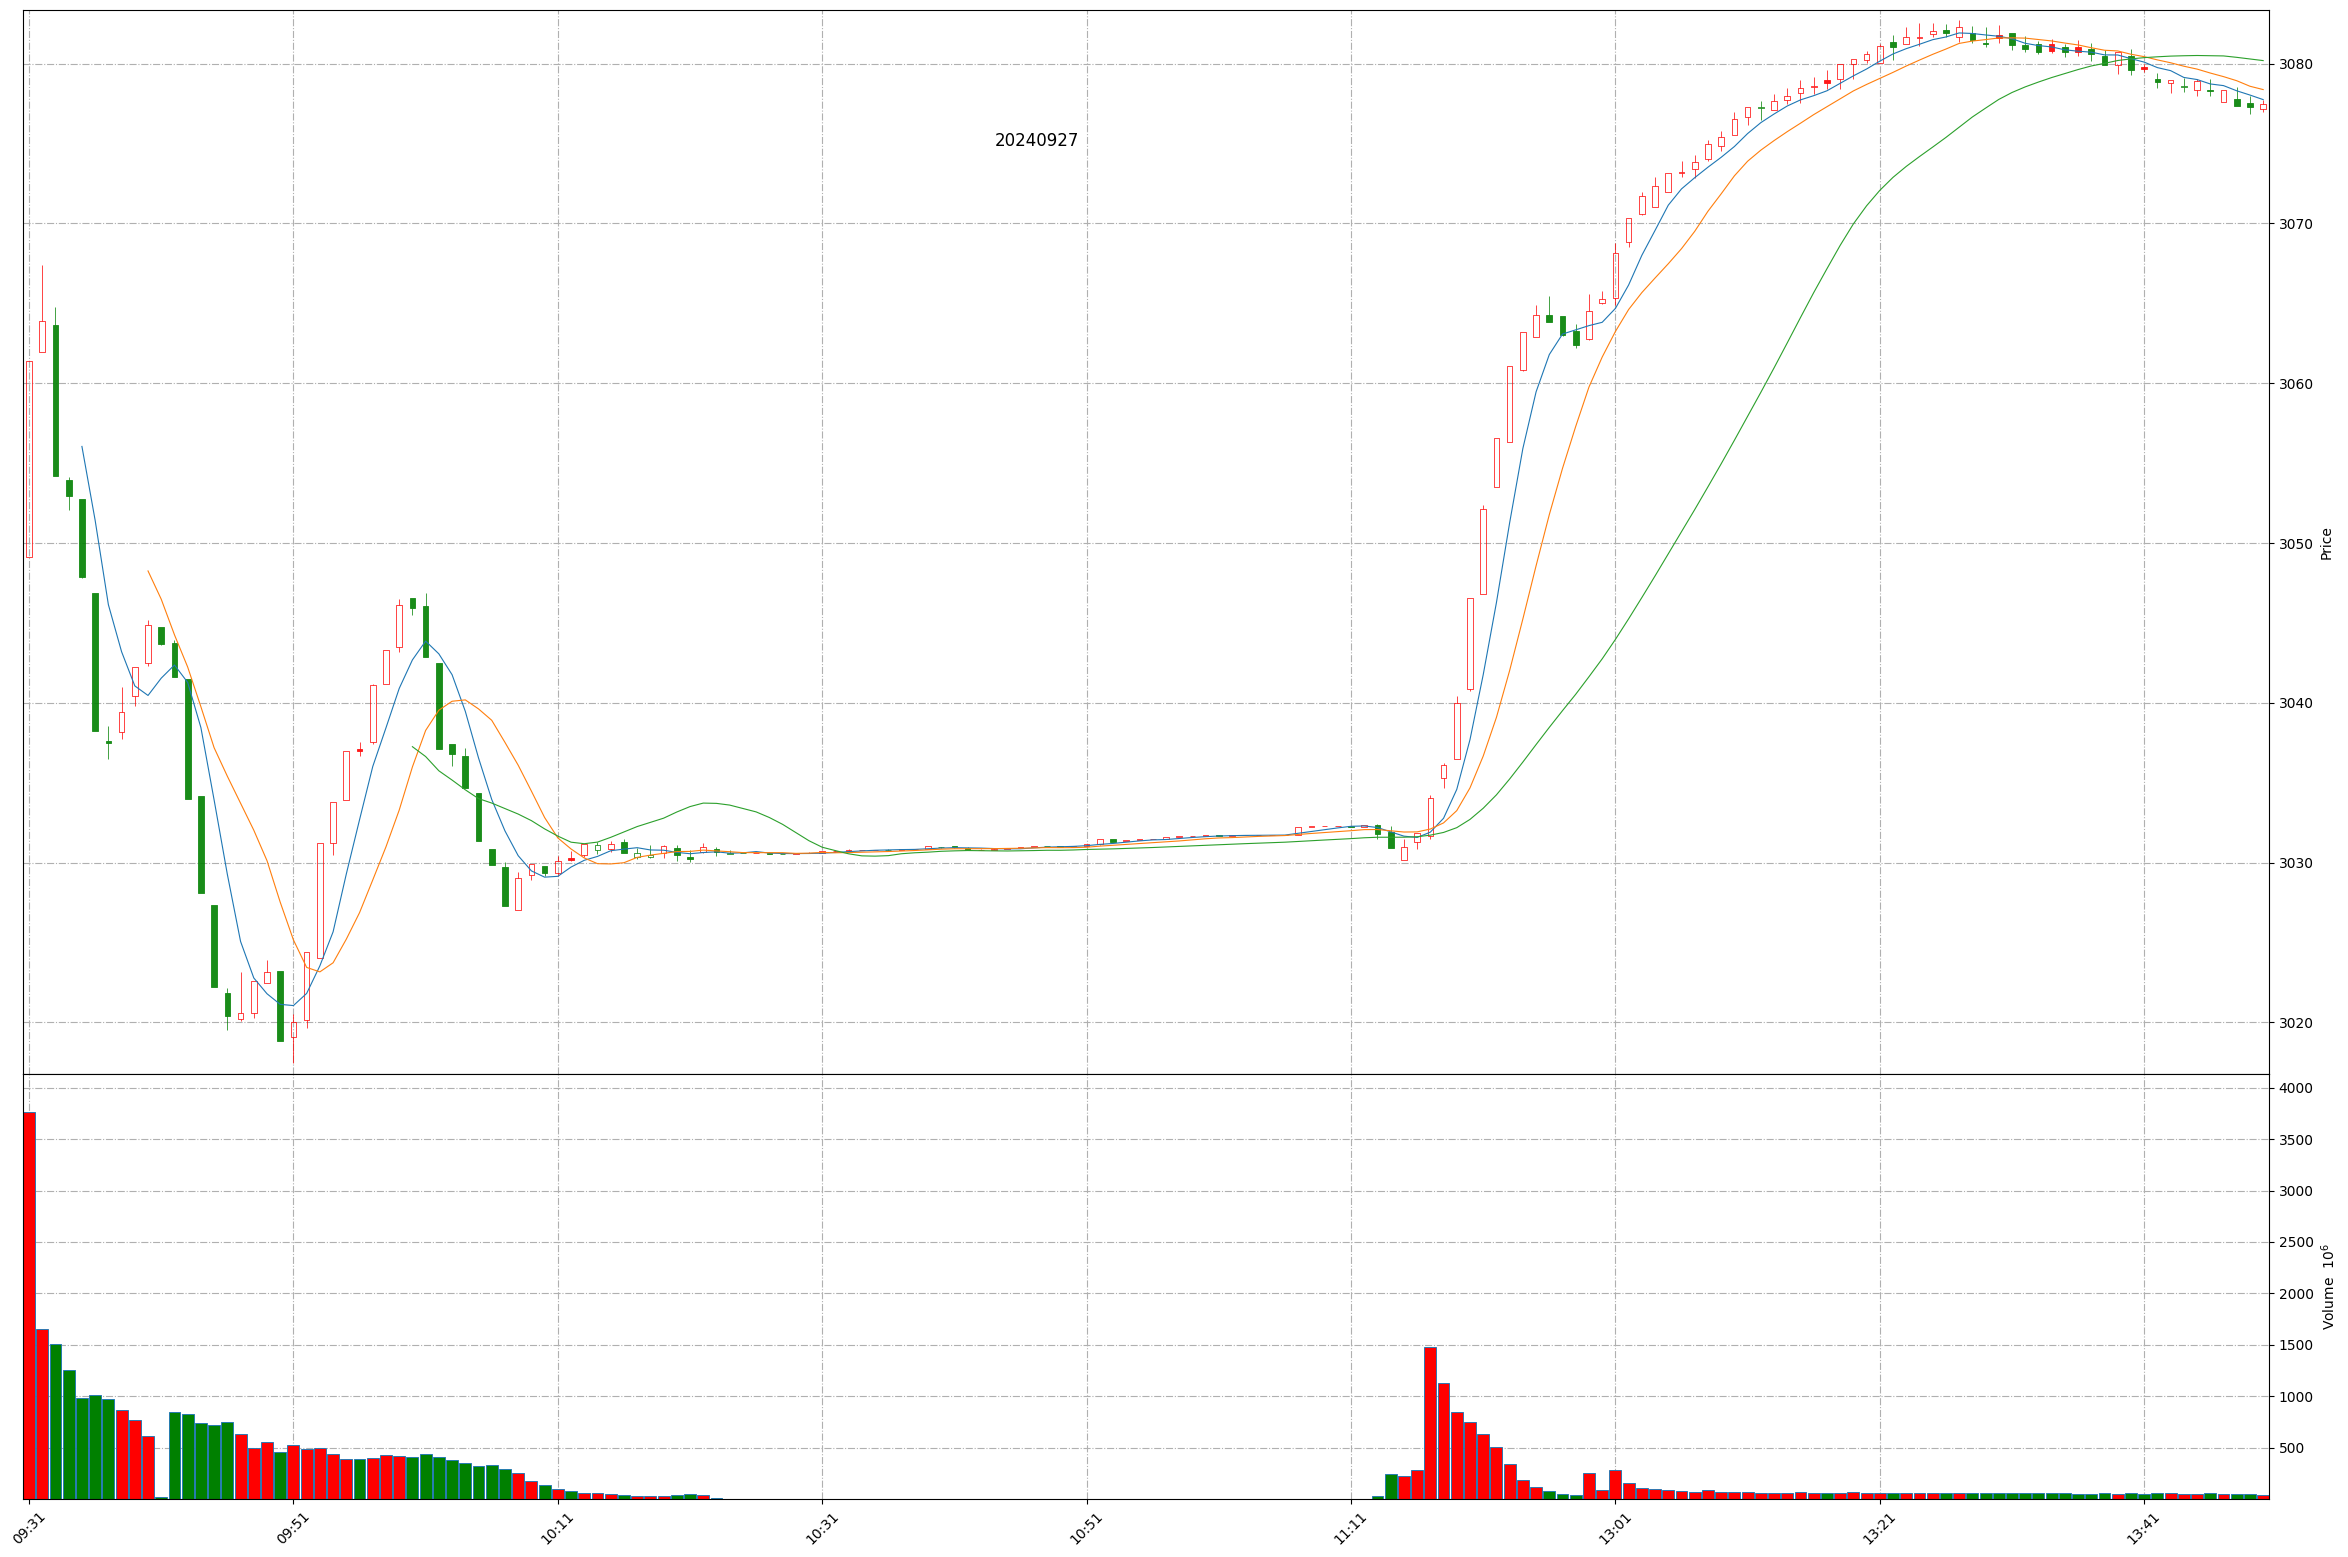
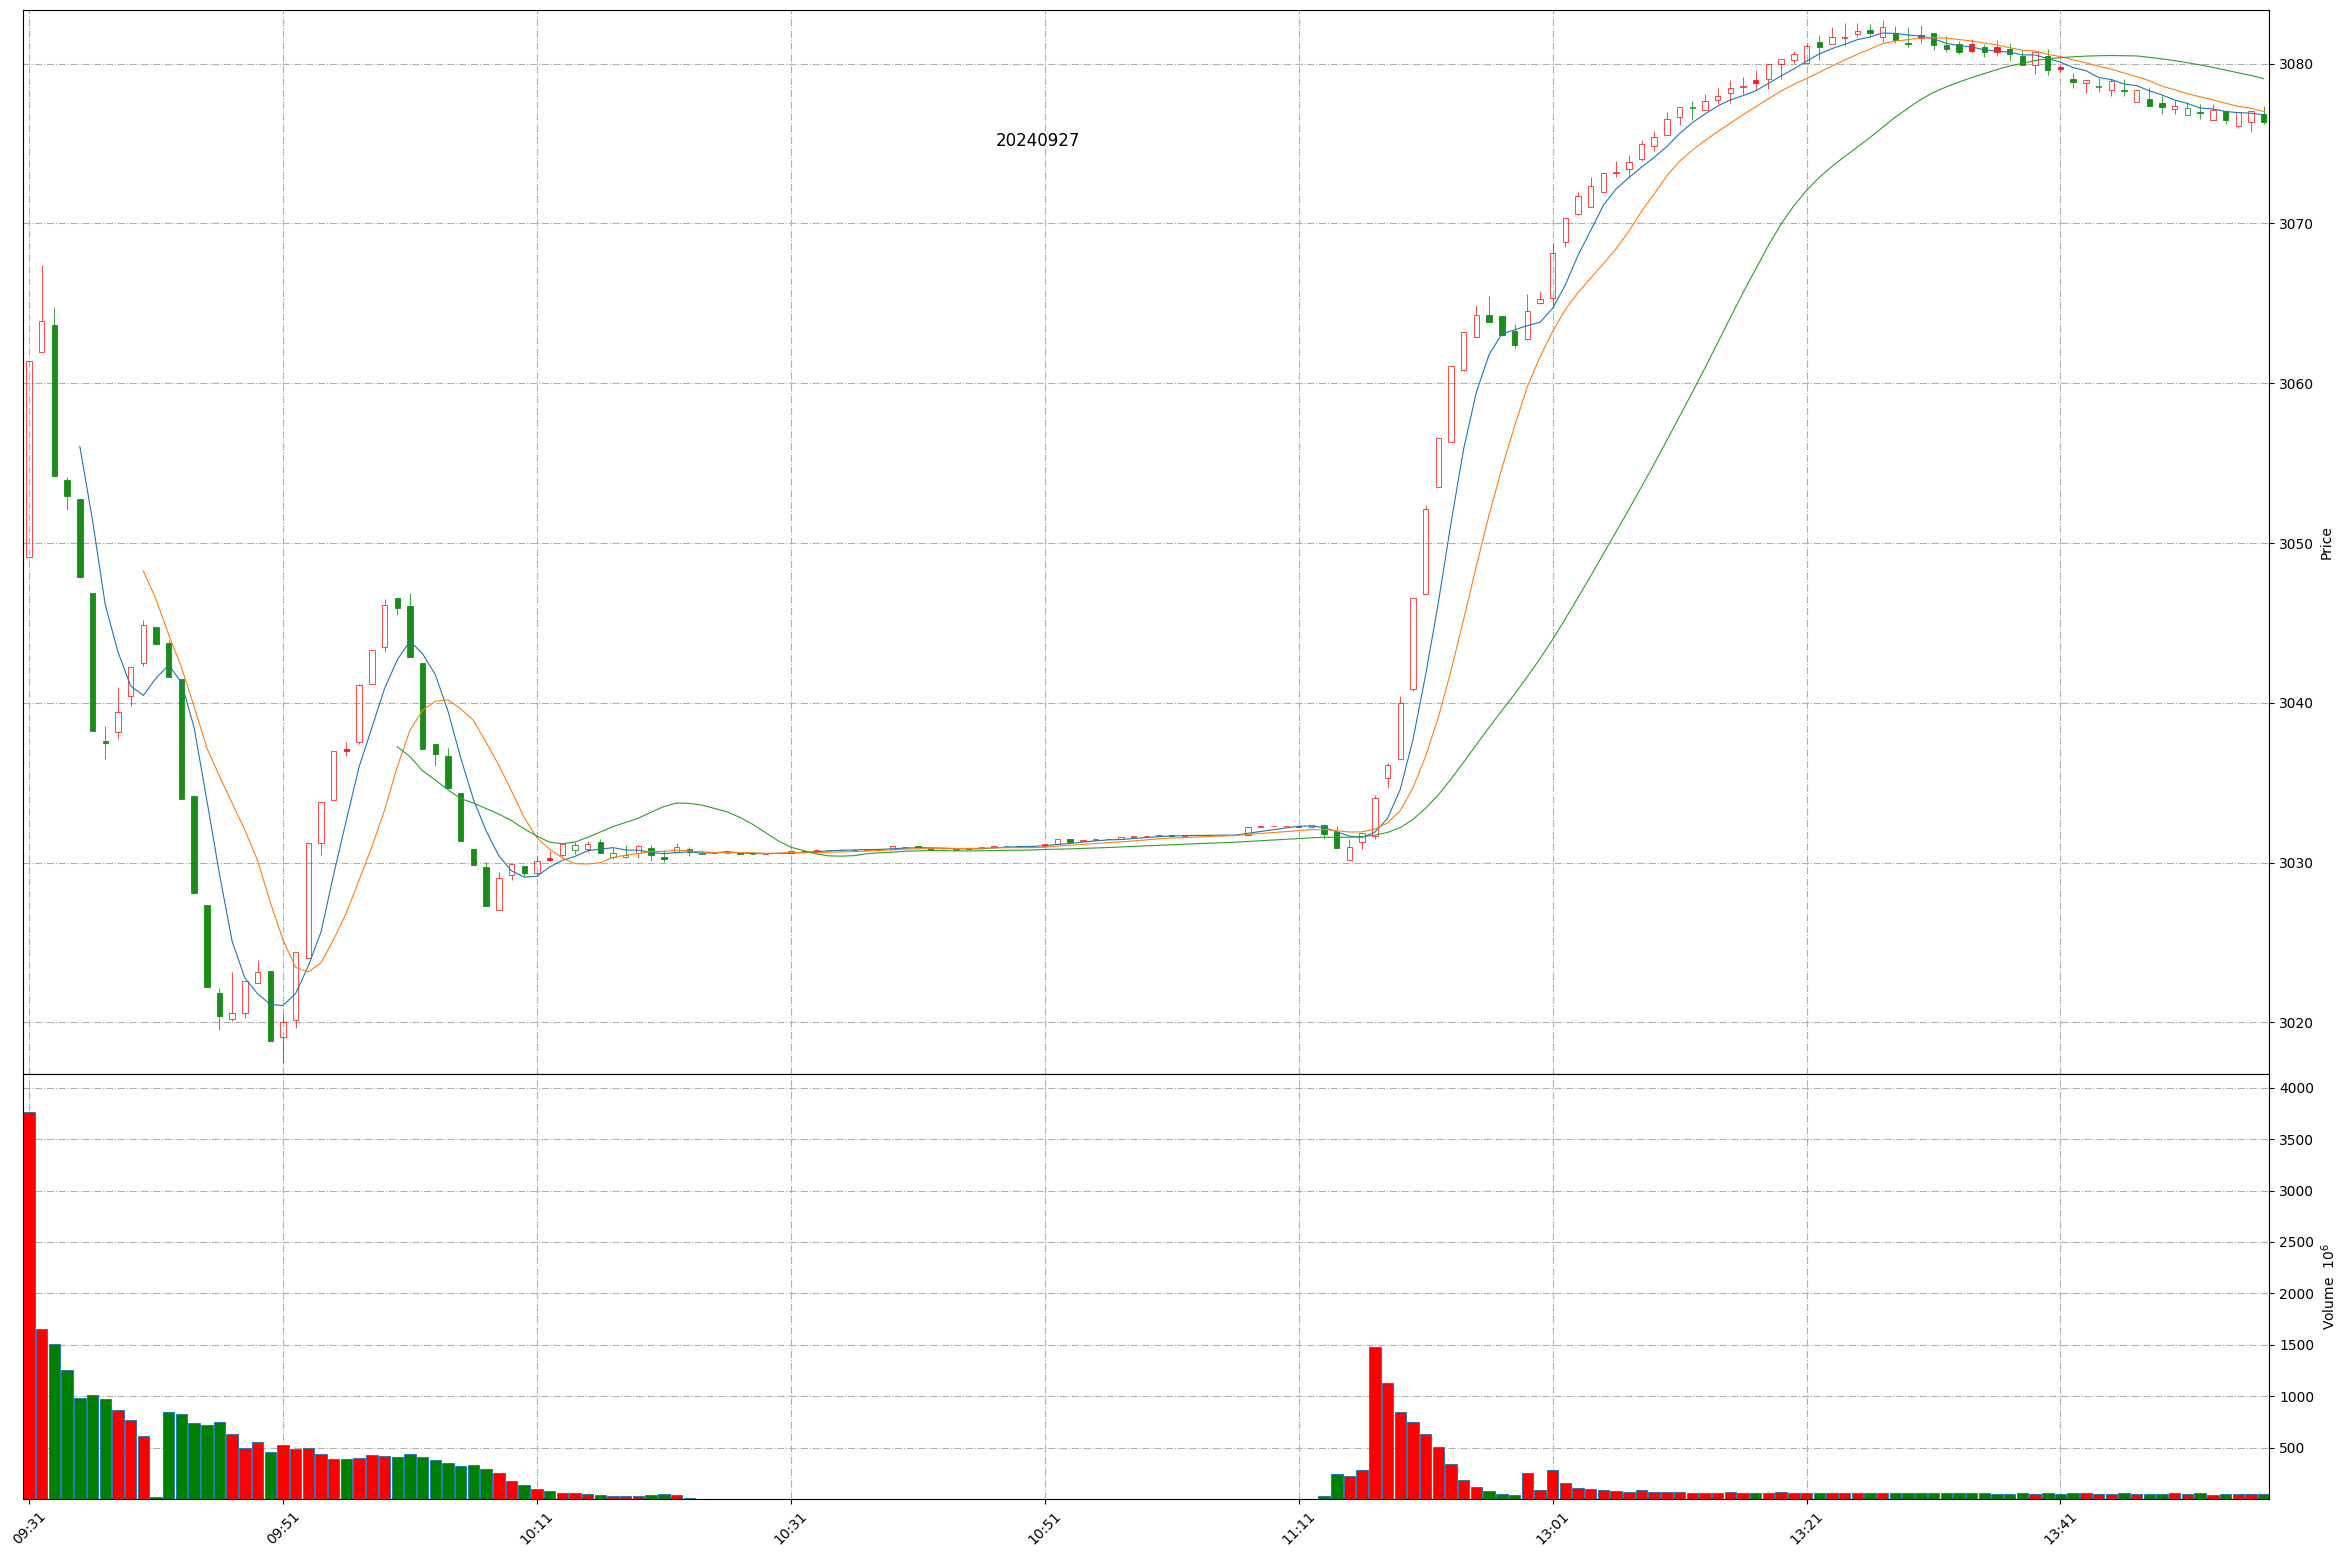
Github action update at 2024-09-27 13:56:59.

diff --git a/README.md b/README.md
@@ -1,11 +1,11 @@
 
 # Daily-A-share-market-quotes 每日 A 股指数（5min 更新）- 20240927
 
-### 上证指数 20240927 13:49
+### 上证指数 20240927 13:56
 ![](./fig/2024/9/20240927-sh000001.png)
 
-### 深证成指 20240927 13:49
+### 深证成指 20240927 13:56
 ![](./fig/2024/9/20240927-sz399001.png)
 
-### 北证50 20240927 13:49
+### 北证50 20240927 13:56
 ![](./fig/2024/9/20240927-bj899050.png)
